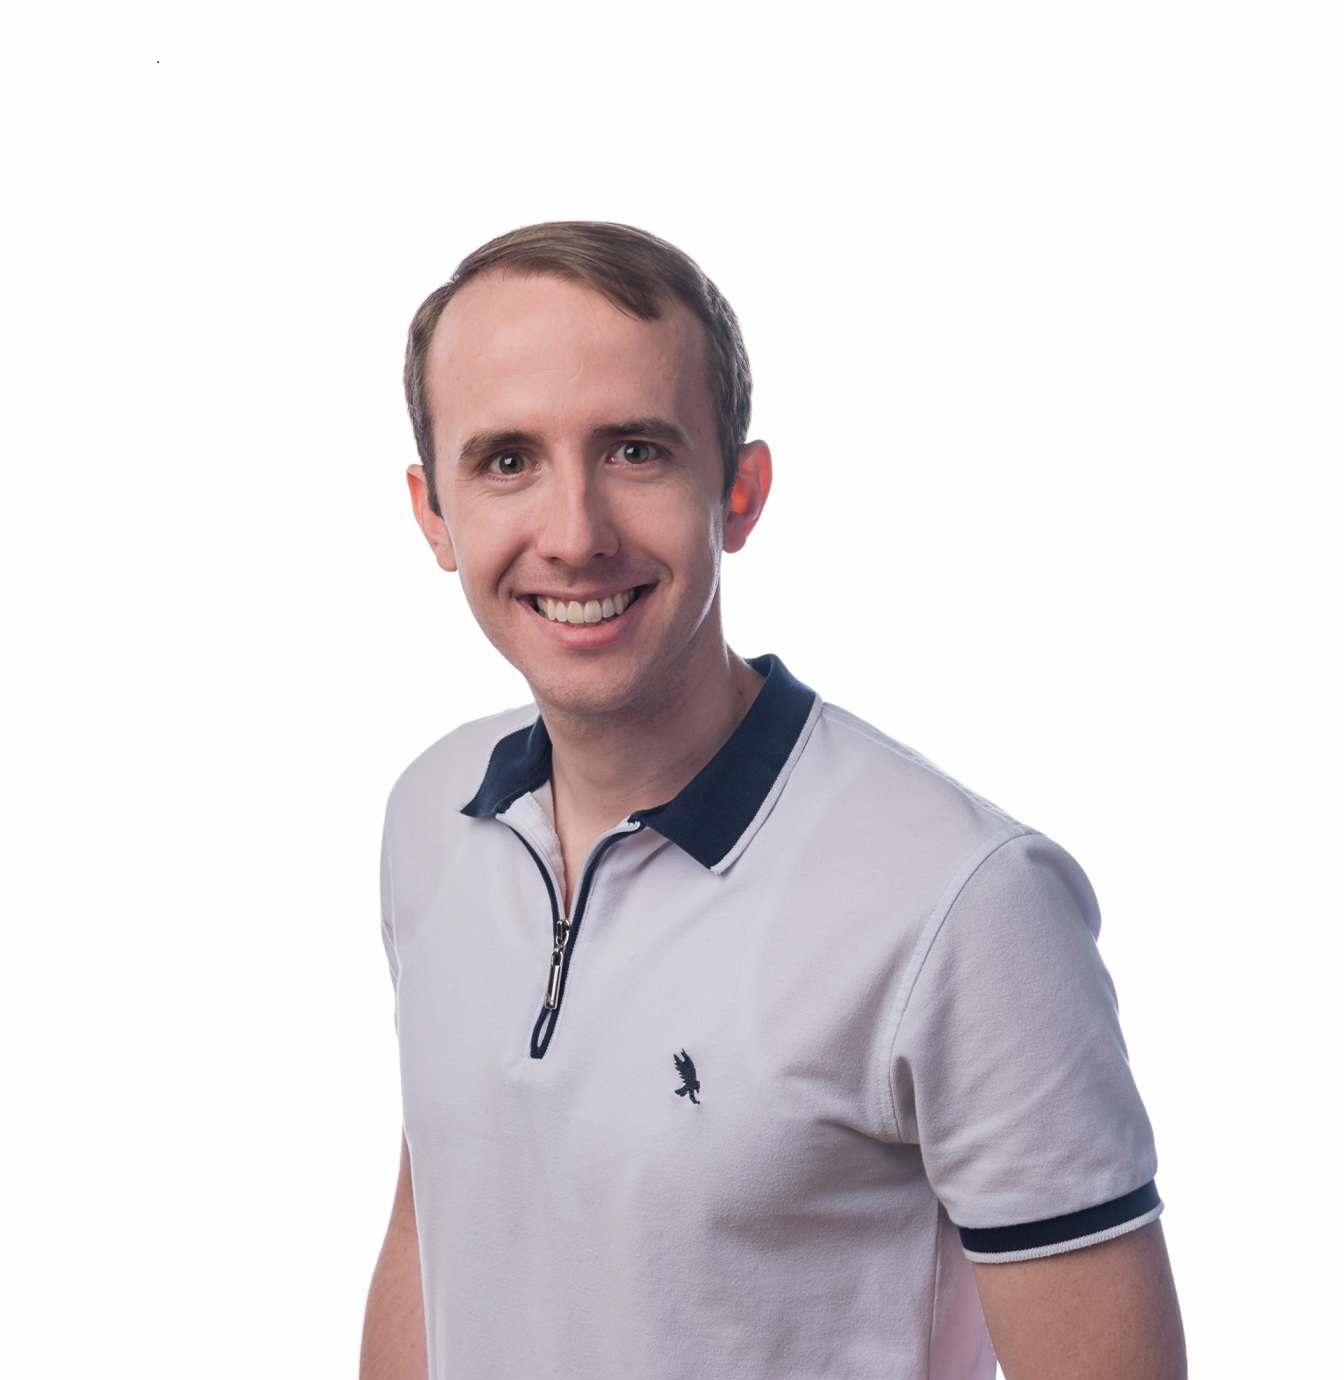
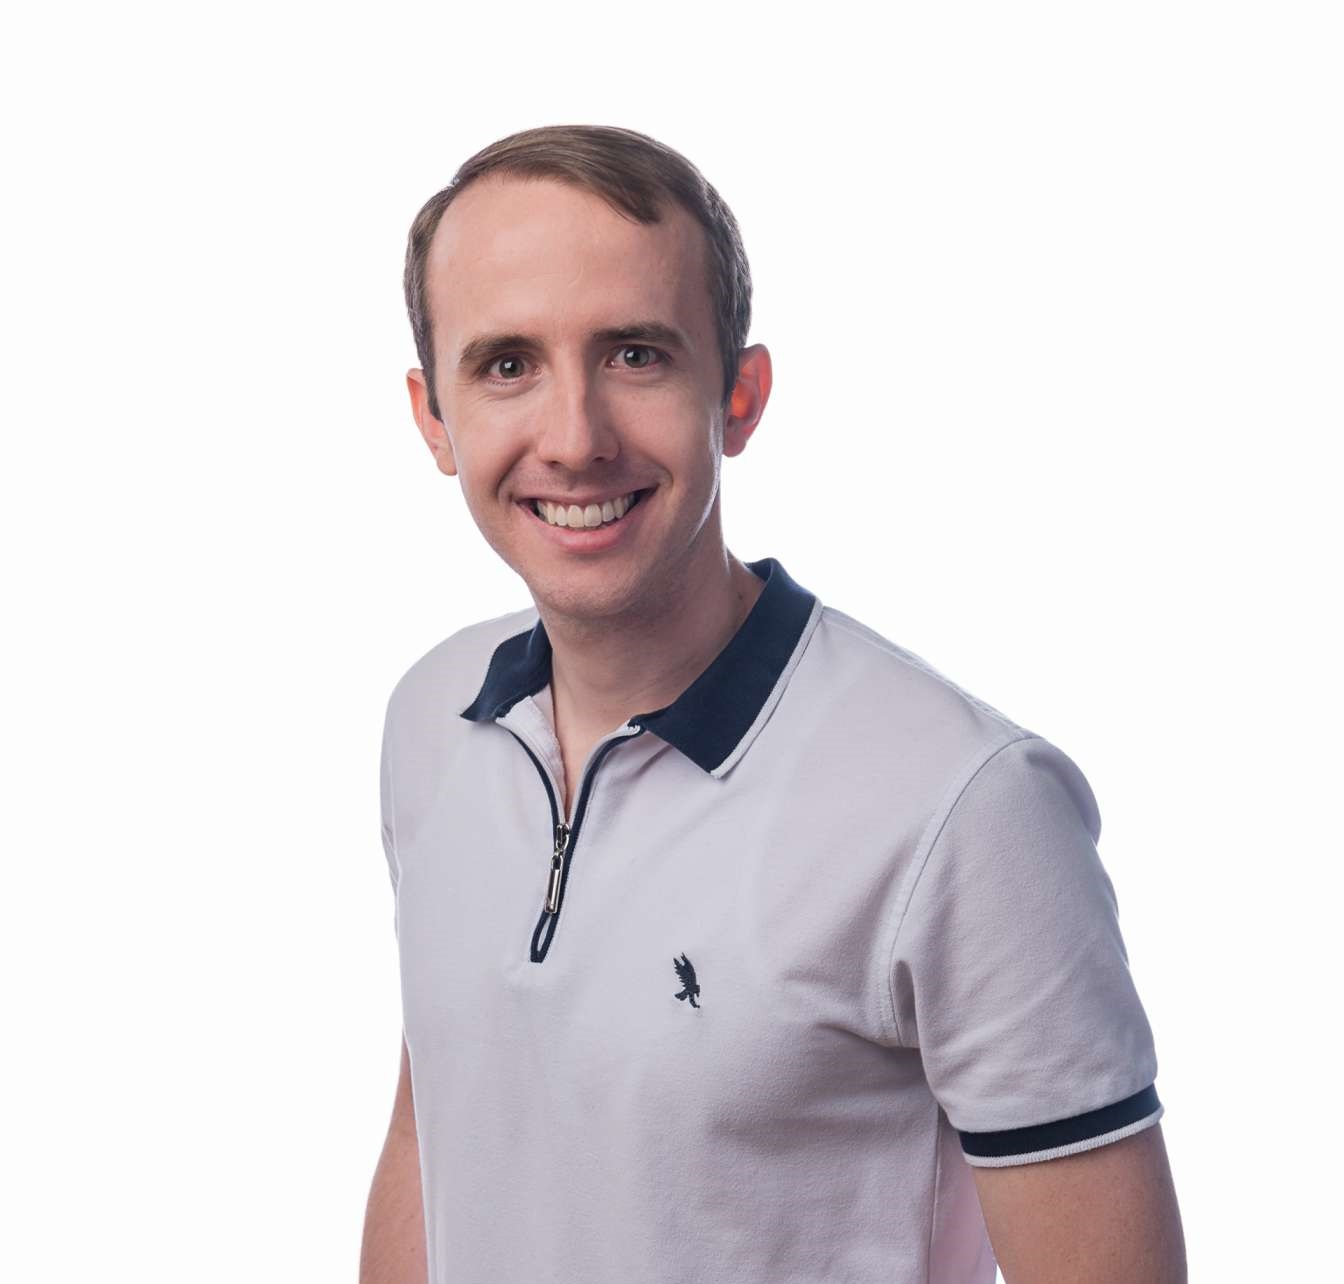
Image size change

diff --git a/portfolio/index.html b/portfolio/index.html
@@ -19,7 +19,7 @@
         <a href="#contact">Contact</a>
       </nav>
       <div class="content-wrap">
-        <img class="profile-img col-narrow" src="images/Profile Picture.jpg" alt="Kyle Teeter">
+        <img class="profile-img col-narrow" src="images/Profile-Picture.png" alt="Kyle Teeter">
         <div class="col-wide">
           <h1>Kyle Teeter</h1>
           <h2>Front End Developer + ESL Tutor</h2>
